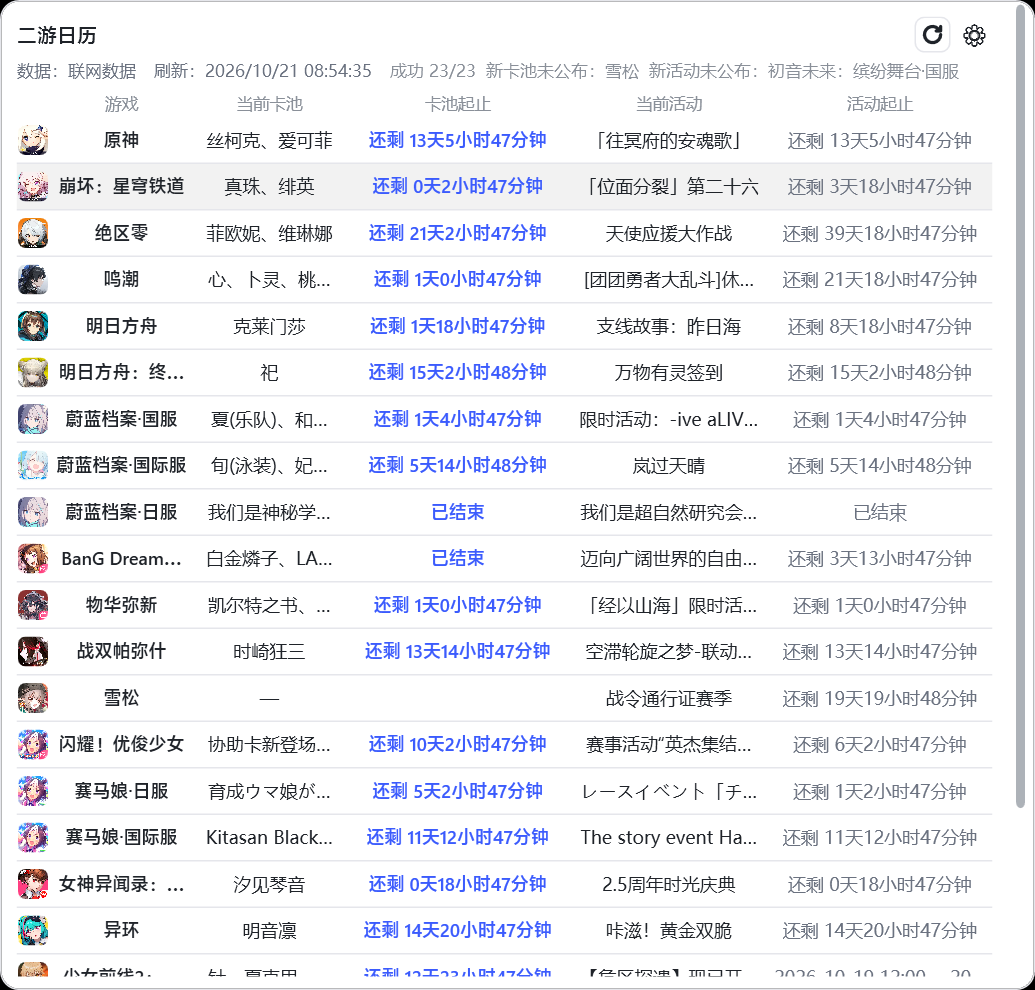
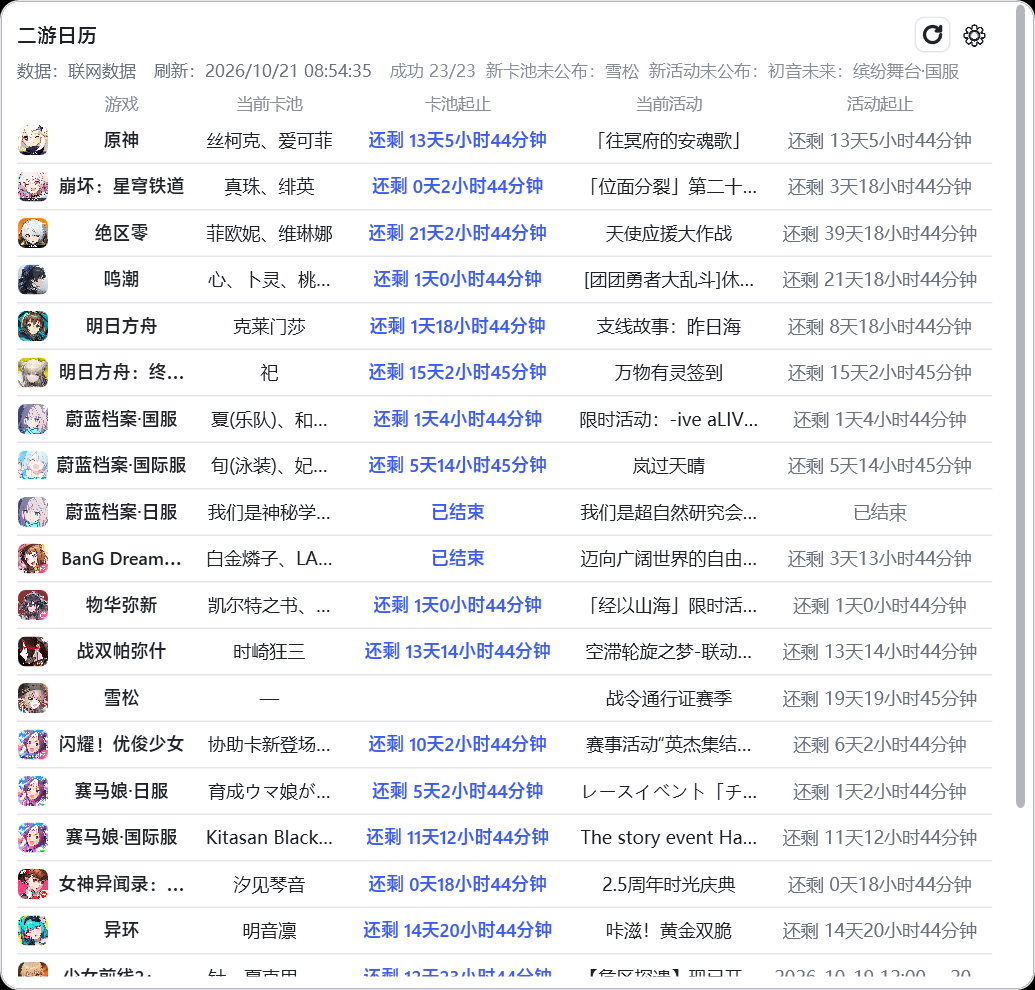
style: v0.1.11 DSH 风格细滚动条
- 自定义 DshScrollViewer + 8px 细滑块，深色主题不再出现系统浅色滚动条
- 滚轮滚动实测 0 -> 34%；截图更新浅/深色面板
- 验收清单补充滚动项；版本 0.1.11

验证：dotnet build 0 警告 0 错误；npm test 34/34；npm run check 通过

diff --git a/src/GachaCalendar/Views/FlyoutWindow.xaml b/src/GachaCalendar/Views/FlyoutWindow.xaml
@@ -59,6 +59,64 @@
 			<Setter Property="TextAlignment" Value="Center" />
 			<Setter Property="VerticalAlignment" Value="Center" />
 		</Style>
+
+		<!-- DSH 风格细滚动条：深色主题下也不出现系统浅色滚动条 -->
+		<Style x:Key="DshThinScrollBar" TargetType="ScrollBar">
+			<Setter Property="Width" Value="8" />
+			<Setter Property="Background" Value="Transparent" />
+			<Setter Property="Template">
+				<Setter.Value>
+					<ControlTemplate TargetType="ScrollBar">
+						<Grid Width="8" Background="Transparent">
+							<Track x:Name="PART_Track" IsDirectionReversed="True" Orientation="Vertical">
+								<Track.DecreaseRepeatButton>
+									<RepeatButton Command="{x:Static ScrollBar.PageUpCommand}" Opacity="0" Focusable="False" />
+								</Track.DecreaseRepeatButton>
+								<Track.Thumb>
+									<Thumb Width="8">
+										<Thumb.Template>
+											<ControlTemplate TargetType="Thumb">
+												<Border Background="{DynamicResource FgFaint}" CornerRadius="4" Opacity="0.65" Margin="1,2" />
+											</ControlTemplate>
+										</Thumb.Template>
+									</Thumb>
+								</Track.Thumb>
+								<Track.IncreaseRepeatButton>
+									<RepeatButton Command="{x:Static ScrollBar.PageDownCommand}" Opacity="0" Focusable="False" />
+								</Track.IncreaseRepeatButton>
+							</Track>
+						</Grid>
+					</ControlTemplate>
+				</Setter.Value>
+			</Setter>
+		</Style>
+
+		<Style x:Key="DshScrollViewer" TargetType="ScrollViewer">
+			<Setter Property="Template">
+				<Setter.Value>
+					<ControlTemplate TargetType="ScrollViewer">
+						<Grid>
+							<Grid.ColumnDefinitions>
+								<ColumnDefinition Width="*" />
+								<ColumnDefinition Width="Auto" />
+							</Grid.ColumnDefinitions>
+							<ScrollContentPresenter x:Name="PART_ScrollContentPresenter" Grid.Column="0"
+													Margin="{TemplateBinding Padding}"
+													Content="{TemplateBinding Content}"
+													ContentTemplate="{TemplateBinding ContentTemplate}"
+													CanContentScroll="{TemplateBinding CanContentScroll}" />
+							<ScrollBar x:Name="PART_VerticalScrollBar" Grid.Column="1" Width="8"
+									   Orientation="Vertical" Cursor="Arrow"
+									   Style="{StaticResource DshThinScrollBar}"
+									   Value="{Binding VerticalOffset, RelativeSource={RelativeSource TemplatedParent}, Mode=OneWay}"
+									   Maximum="{TemplateBinding ScrollableHeight}"
+									   ViewportSize="{TemplateBinding ViewportHeight}"
+									   Visibility="{TemplateBinding ComputedVerticalScrollBarVisibility}" />
+						</Grid>
+					</ControlTemplate>
+				</Setter.Value>
+			</Setter>
+		</Style>
 	</Window.Resources>
 
 	<Border CornerRadius="12" Background="{DynamicResource PanelBg}" BorderBrush="{DynamicResource PanelBorder}" BorderThickness="1">
@@ -66,7 +124,7 @@
 			<DropShadowEffect BlurRadius="30" ShadowDepth="8" Opacity="0.25" Color="Black" />
 		</Border.Effect>
 
-		<ScrollViewer VerticalScrollBarVisibility="Auto" HorizontalScrollBarVisibility="Disabled" Padding="10,10,10,8">
+		<ScrollViewer Style="{StaticResource DshScrollViewer}" VerticalScrollBarVisibility="Auto" HorizontalScrollBarVisibility="Disabled" Padding="10,10,10,8">
 			<StackPanel>
 				<!-- 标题 + 操作（DSH 面板：13px semibold，右侧小按钮） -->
 				<Grid Margin="0,0,0,4">

diff --git a/docs/04-路线图.md b/docs/04-路线图.md
@@ -134,7 +134,14 @@ Fluent/DSH 风格外观已列入 [BACKLOG.md](../BACKLOG.md)。
 
 **验收**：浅/深两套截图 + 验收清单；默认面板与设置页功能项全部有实现或明确标注未纳入。
 
-## v0.1.11 · 任务栏体验打磨
+## v0.1.11 · 细滚动条与深色细节（2026-10-21）
+
+- [x] DSH 风格 8px 细滚动条；深色主题不再出现系统浅色滚动条
+- [x] 滚轮滚动实测（UIA VerticalScrollPercent 0 → 34%）
+- [ ] 滚动条 hover/拖动像素级回归
+- [ ] 深色系统标题栏（设置窗口）
+
+## v0.1.12 · 任务栏体验打磨
 
 - [ ] 多显示器：主屏 / 每屏一份（设置项）
 - [ ] 任务栏自动隐藏时跟随（贴屏幕边缘而非消失）
@@ -144,7 +151,7 @@ Fluent/DSH 风格外观已列入 [BACKLOG.md](../BACKLOG.md)。
 - [ ] 点击外部关闭面板、Esc、快捷键（可选 Win+Alt+G）
 - [ ] 电源/锁屏/睡眠恢复后的任务栏重定位
 
-## v0.1.12 · 分发工程化
+## v0.1.13 · 分发工程化
 
 - [ ] `publish` 脚本：自包含 single-file zip + 框架依赖 zip
 - [ ] 安装包（Inno Setup 或 MSIX）：开始菜单、卸载清理自启项
@@ -153,7 +160,7 @@ Fluent/DSH 风格外观已列入 [BACKLOG.md](../BACKLOG.md)。
 - [ ] 性能预算：空闲内存 ≤ 120MB、CPU ≤ 0.1%、启动 ≤ 2s
 - [ ] 首次运行引导：数据从哪来、如何刷新、如何关掉原生小组件避免重叠
 
-## v0.1.13 · 商店与打磨
+## v0.1.14 · 商店与打磨
 
 - [ ] 代码签名（SmartScreen）
 - [ ] Microsoft Store / MSIX 上架评估

diff --git a/docs/11-DSH面板复刻验收.md b/docs/11-DSH面板复刻验收.md
@@ -18,6 +18,7 @@
 | 悬停 tooltip（卡池全名/时间/失败说明） | `GachaTip` / `GachaDateTip` / `EventTip` / `EventDateTip`；`RowBuilder.WithFailNote` | 代码 |
 | 失败三态：down / nomatch / stale | 头部抓取提示 + 单元格 tooltip；`RowBuilder` 口径 | `docs/08`；引擎测试 |
 | 点击面板外 / Esc 关闭 | `Deactivated` + `PreviewKeyDown` | 代码 |
+| 滚动 / 细滚动条 | 自定义 `DshScrollViewer` + 8px 滑块；滚轮实测 0→34% | 深色截图；v0.1.11 |
 | 深浅色 | `ThemeManager` token；`GACHA_CALENDAR_THEME=light/dark` 可强制 | `docs/images/flyout.png`、`flyout-dark.png` |
 
 ## 2. 设置页
@@ -58,5 +59,5 @@ npm run check
 
 - 插件实验性 `newPanel`（`settings.newPanel === true` 的日期胶囊/时间轴/悬停卡片）——默认关闭，未计入本次验收；
 - 设置页颜色列 / 取色器（`gameColors`）；
-- 滚动条像素级样式、深色系统标题栏、100%/150% DPI 逐像素回归；
+- 深色系统标题栏、100%/150% DPI 逐像素回归；
 - Host 运行时打包（当前开发期要求本机 Node；安装包阶段再解决）。

diff --git a/CHANGELOG.md b/CHANGELOG.md
@@ -1,5 +1,11 @@
 # CHANGELOG
 
+## v0.1.11 · 2026-10-21
+
+- 主面板改用 DSH 风格 8px 细滚动条，深色主题不再出现系统浅色滚动条；
+  保留滚轮滚动（实测滚动比例 0 → 34%）
+- 版本 0.1.11
+
 ## v0.1.10 · 2026-10-21
 
 - 视觉 token 向 DSH 面板对齐：白底/`#1F2329` 主文字/`#6B7280` 次文字/`#8A9099` 弱文字/
